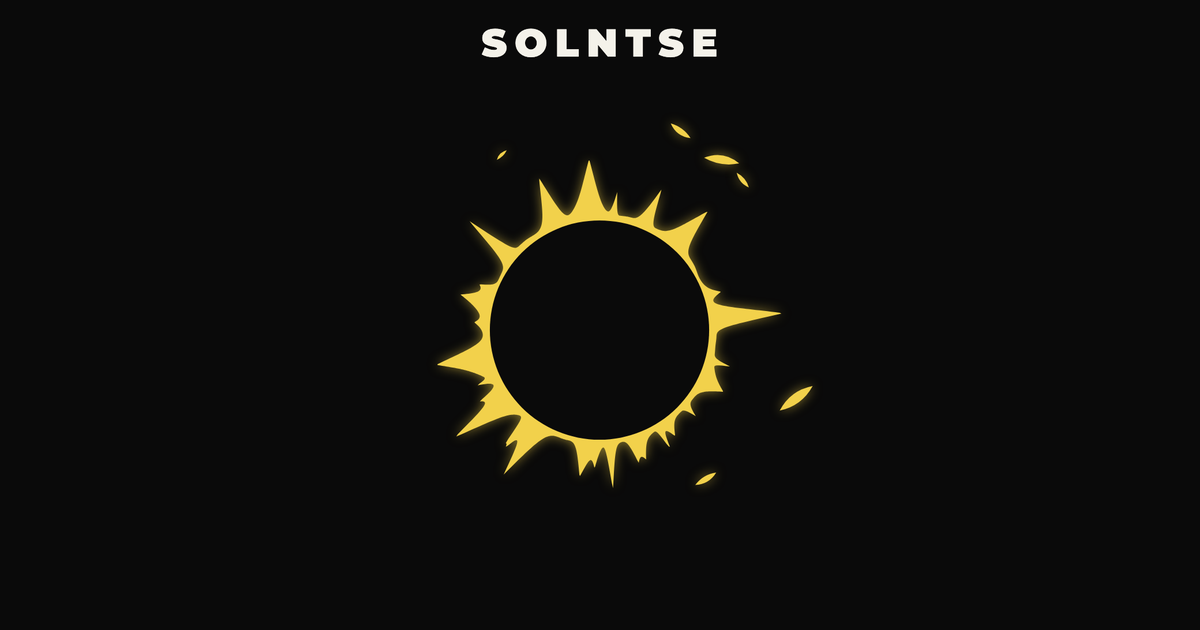
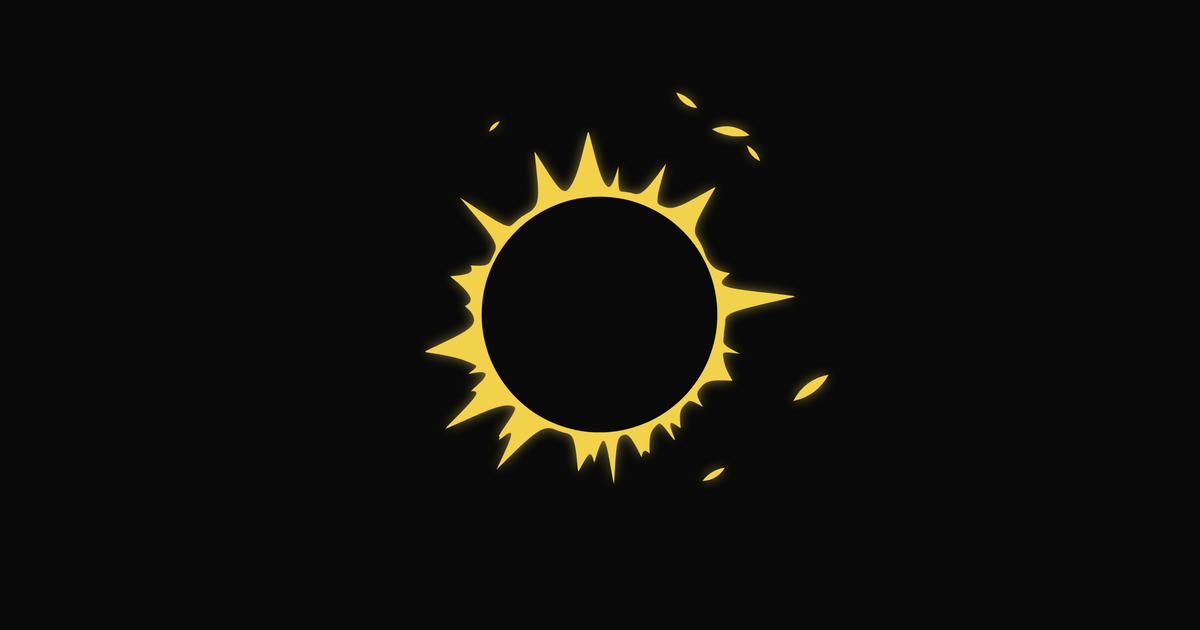
feat: open on a random sun, add footer link, drop wordmark from OG image
The page used to load on the same fixed still every time. Now the shape sliders,
seed, spin direction and the gradient and liquid-hole toggles are randomised
within ranges that stay legible, and the base flow speed sits higher. Randomise
rolls all of it rather than only reseeding geometry; Reset to cover still
restores the documented cover state exactly.

Also add a minimal repo link in the footer and rebuild og.png without the
SOLNTSE wordmark.

Claude-Session: https://claude.ai/code/session_01HTHv2x9yjxjd3c1YEbDP2R

diff --git a/index.html b/index.html
@@ -16,7 +16,7 @@
 <meta property="og:image" content="https://solntse.vercel.app/og.png">
 <meta property="og:image:width" content="1200">
 <meta property="og:image:height" content="630">
-<meta property="og:image:alt" content="A jagged yellow sun on black under the word SOLNTSE">
+<meta property="og:image:alt" content="A jagged yellow sun on a black ground">
 <meta name="twitter:card" content="summary_large_image">
 <meta name="twitter:title" content="Solntse — animated album cover generator">
 <meta name="twitter:description" content="Make animated album cover artwork in the browser: a procedural sun with editable type. Export as SVG, PNG, GIF or 60fps video.">
@@ -54,6 +54,9 @@ body{margin:0;background:var(--bg);color:var(--text);font-family:var(--font-sans
 .about em{color:var(--text-secondary)}
 .masthead a{color:var(--text-secondary);text-decoration-color:var(--border);text-underline-offset:2px}
 .masthead a:hover{color:var(--accent)}
+.foot{margin-top:16px;padding-top:12px;border-top:0.5px solid var(--border);font-size:12.5px}
+.foot a{color:var(--text-muted);text-decoration:none}
+.foot a:hover{color:var(--accent)}
 .links{display:flex;flex-wrap:wrap;gap:12px;margin-top:8px}
 .links a{text-decoration:none;border-bottom:0.5px solid var(--border);padding-bottom:1px}
 button,input,select,textarea{font-family:inherit;font-size:14px;color:var(--text)}
@@ -155,6 +158,7 @@ input[type=range]{height:20px}
     <span id="gstat" role="status" style="font-size:13px;color:var(--text-muted)"></span>
   </div>
 </div>
+<footer class="foot"><a href="https://github.com/TimMikeladze/solntse" target="_blank" rel="noreferrer">TimMikeladze/solntse</a></footer>
 <script>
 (function(){
 var cv=document.getElementById('lavasun'),ctx=cv.getContext('2d'),TAU=Math.PI*2;
@@ -174,6 +178,23 @@ function build(sd){var r=seed(sd),i,k;SL=[];DR=[];JG=[];
  for(i=0;i<24;i++)DR.push({a0:r()*TAU,rj:r(),ob:r(),oa:0.04+r()*0.09,os:0.12+r()*0.26,op:r()*TAU,sz:0.45+r()*1.05,ps:(r()-0.5)*1.1,as:0.75+r()*0.5,w:r()*TAU});
  var ks=[9,15,23,37];for(i=0;i<4;i++)JG.push({k:ks[i]+Math.floor(r()*7),ph:r()*TAU,dr:(r()-0.5)*0.6,a:[0.5,0.3,0.2,0.13][i]});}
 build(514422);
+/* The cover in DEF is one point in a wide space. Every load lands somewhere else
+   in it, so the page opens on a sun nobody has seen rather than the same still. */
+var WILD={speed:[1.3,2.4],spin:[0.05,0.3],flames:[7,22],length:[0.5,0.95],sharp:[0.35,0.9],
+ branch:[0.25,0.95],jag:[0.2,0.85],sweep:[0.05,0.6],drops:[3,14],dsize:[0.2,0.6],
+ sliver:[0.45,0.95],orbit:[0.15,0.6],ripple:[0.25,0.8],hole:[0.3,0.52],
+ scale:[0.7,0.88],offy:[-0.03,0.03]};
+function rnd(a,b){return a+Math.random()*(b-a);}
+function shuffle(){
+ for(var k in WILD){var r=WILD[k],v=rnd(r[0],r[1]);
+  if(k==='flames'||k==='drops')v=Math.round(v);
+  if(k==='spin'&&Math.random()<0.5)v=-v;
+  document.getElementById(k).value=v;}
+ document.getElementById('glow').value=Math.random()<0.55?0:rnd(0.12,0.42);
+ grad=Math.random()<0.3;wob=Math.random()<0.35;
+ document.getElementById('bgrad').textContent='Gradient: '+(grad?'on':'off');
+ document.getElementById('bwob').textContent='Liquid hole: '+(wob?'on':'off');
+ build(Math.floor(Math.random()*1e6));sync();}
 function hx(h){h=h.replace('#','');return[parseInt(h.substr(0,2),16),parseInt(h.substr(2,2),16),parseInt(h.substr(4,2),16)];}
 function mx(c,w,a){return'rgb('+Math.round(c[0]+(w[0]-c[0])*a)+','+Math.round(c[1]+(w[1]-c[1])*a)+','+Math.round(c[2]+(w[2]-c[2])*a)+')';}
 function val(id){return document.getElementById(id).value;}
@@ -532,7 +553,7 @@ document.getElementById('bdith').addEventListener('click',function(){
  dith=!dith;this.textContent='Dither: '+(dith?'on':'off');});
 
 document.getElementById('bpause').addEventListener('click',function(){paused=!paused;this.innerHTML='<i class="ti '+(paused?'ti-player-play':'ti-player-pause')+'" style="font-size:16px;vertical-align:-2px;margin-right:5px" aria-hidden="true"></i>'+(paused?'Play':'Pause');});
-document.getElementById('brand').addEventListener('click',function(){build(Math.floor(Math.random()*1e6));});
+document.getElementById('brand').addEventListener('click',shuffle);
 document.getElementById('bcaps').addEventListener('click',function(){caps=!caps;this.textContent='Caps: '+(caps?'on':'off');});
 document.getElementById('bgrad').addEventListener('click',function(){grad=!grad;this.textContent='Gradient: '+(grad?'on':'off');});
 document.getElementById('bwob').addEventListener('click',function(){wob=!wob;this.textContent='Liquid hole: '+(wob?'on':'off');});
@@ -541,7 +562,7 @@ document.getElementById('breset').addEventListener('click',function(){for(var i=
  document.getElementById('ttop').value='КИНО';document.getElementById('tbot').value='ЗВЕЗДА\nПО ИМЕНИ\nСОЛНЦЕ';document.getElementById('tfont').value='Montserrat';
  grad=false;wob=false;caps=true;dith=false;document.getElementById('bgrad').textContent='Gradient: off';document.getElementById('bwob').textContent='Liquid hole: off';document.getElementById('bcaps').textContent='Caps: on';document.getElementById('bdith').textContent='Dither: off';
  build(514422);sync();});
-window.addEventListener('resize',fit);sync();fit();requestAnimationFrame(frame);
+window.addEventListener('resize',fit);shuffle();fit();requestAnimationFrame(frame);
 })();
 </script>
 </div>

diff --git a/README.md b/README.md
@@ -28,9 +28,14 @@ Nothing here is traced from that cover: the sun is generated from scratch on eve
 
 Open the page and start moving sliders. The canvas updates live.
 
+Every load opens on a different sun: the shape sliders, the seed, the spin direction and the gradient
+and liquid-hole toggles are all randomised within a range that stays legible. The album cover is one
+point in that space, not the starting point.
+
 - **Top line** and **Bottom lines** start empty. Type your own, one line per row in the textarea.
-- **Reset to cover** restores the original КИНО / ЗВЕЗДА ПО ИМЕНИ СОЛНЦЕ artwork and every default.
-- **Randomise** reseeds the flame and sliver geometry without touching your slider values.
+- **Randomise** rolls a new sun — sliders, seed and toggles together.
+- **Reset to cover** goes the other way: the original КИНО / ЗВЕЗДА ПО ИМЕНИ СОЛНЦЕ artwork and every
+  documented default.
 - **Pause** freezes the animation so you can grab a specific frame.
 
 ### Controls
